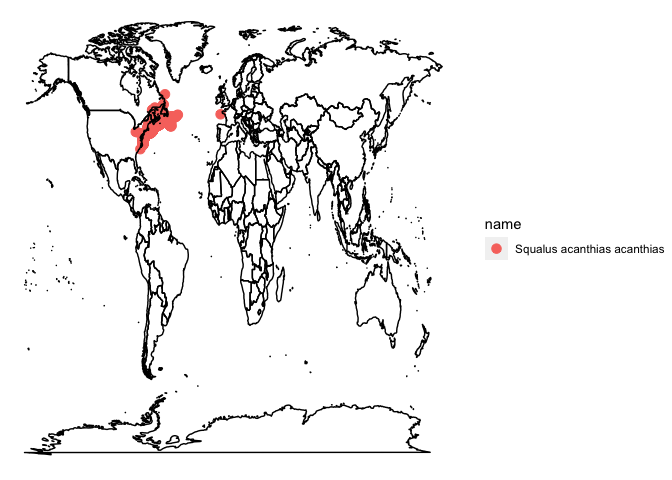
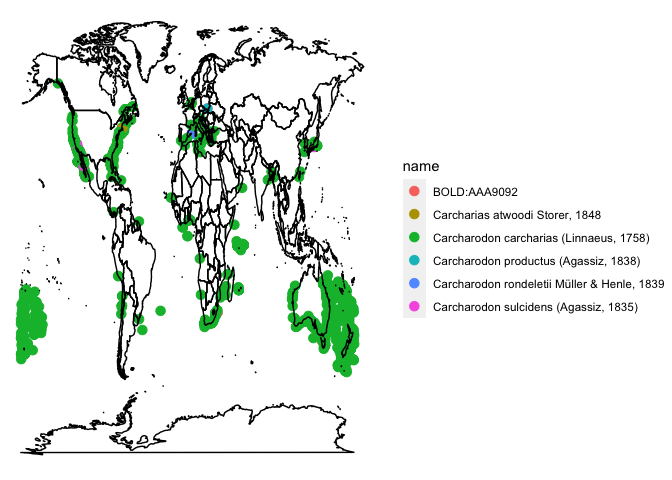
update read me

diff --git a/README.md b/README.md
@@ -30,92 +30,10 @@ suppressPackageStartupMessages({
 })
 
 # make it quiet for the purpose of the README markdown
-x = fetch_gbif(species = "Squalus acanthias subsp. acanthias Linnaeus, 1758", 
-               verbose = FALSE, progress = FALSE) |>
-  dplyr::glimpse()
+# x = fetch_gbif(species = "Carcharodon carcharias", 
+#                verbose = FALSE, progress = FALSE) |>
+#   dplyr::glimpse()
 ```
-
-    ## Rows: 9,704
-    ## Columns: 79
-    ## $ key                                     <chr> "3489356476", "18485333", "184…
-    ## $ scientificName                          <chr> "Squalus acanthias acanthias",…
-    ## $ decimalLatitude                         <dbl> 47.49023, 47.26000, 47.08000, …
-    ## $ decimalLongitude                        <dbl> -6.18211, -58.44000, -58.21000…
-    ## $ issues                                  <chr> "gass84", "gass84", "gass84", …
-    ## $ datasetKey                              <chr> "6cbf7d4d-13cb-4604-8668-db68f…
-    ## $ publishingOrgKey                        <chr> "1928bdf0-f5d2-11dc-8c12-b8a03…
-    ## $ installationKey                         <chr> "07ea29ef-e386-4278-ae0f-09577…
-    ## $ publishingCountry                       <chr> "FR", "CA", "CA", "CA", "CA", …
-    ## $ protocol                                <chr> "DWC_ARCHIVE", "DWC_ARCHIVE", …
-    ## $ lastCrawled                             <chr> "2022-04-20T10:46:55.512+00:00…
-    ## $ lastParsed                              <chr> "2022-04-25T18:41:54.030+00:00…
-    ## $ crawlId                                 <int> 169, 168, 168, 168, 168, 168, …
-    ## $ hostingOrganizationKey                  <chr> "1928bdf0-f5d2-11dc-8c12-b8a03…
-    ## $ basisOfRecord                           <chr> "HUMAN_OBSERVATION", "HUMAN_OB…
-    ## $ occurrenceStatus                        <chr> "PRESENT", "PRESENT", "PRESENT…
-    ## $ taxonKey                                <int> 6163063, 6163063, 6163063, 616…
-    ## $ kingdomKey                              <int> 1, 1, 1, 1, 1, 1, 1, 1, 1, 1, …
-    ## $ phylumKey                               <int> 44, 44, 44, 44, 44, 44, 44, 44…
-    ## $ classKey                                <int> 121, 121, 121, 121, 121, 121, …
-    ## $ orderKey                                <int> 883, 883, 883, 883, 883, 883, …
-    ## $ familyKey                               <int> 5872, 5872, 5872, 5872, 5872, …
-    ## $ genusKey                                <int> 2420869, 2420869, 2420869, 242…
-    ## $ speciesKey                              <int> 5216368, 5216368, 5216368, 521…
-    ## $ acceptedTaxonKey                        <int> 5216368, 5216368, 5216368, 521…
-    ## $ acceptedScientificName                  <chr> "Squalus acanthias Linnaeus, 1…
-    ## $ kingdom                                 <chr> "Animalia", "Animalia", "Anima…
-    ## $ phylum                                  <chr> "Chordata", "Chordata", "Chord…
-    ## $ order                                   <chr> "Squaliformes", "Squaliformes"…
-    ## $ family                                  <chr> "Squalidae", "Squalidae", "Squ…
-    ## $ genus                                   <chr> "Squalus", "Squalus", "Squalus…
-    ## $ species                                 <chr> "Squalus acanthias", "Squalus …
-    ## $ genericName                             <chr> "Squalus", "Squalus", "Squalus…
-    ## $ specificEpithet                         <chr> "acanthias", "acanthias", "aca…
-    ## $ infraspecificEpithet                    <chr> "acanthias", "acanthias", "aca…
-    ## $ taxonRank                               <chr> "SUBSPECIES", "SUBSPECIES", "S…
-    ## $ taxonomicStatus                         <chr> "SYNONYM", "SYNONYM", "SYNONYM…
-    ## $ coordinateUncertaintyInMeters           <dbl> 256905, NA, NA, NA, NA, NA, NA…
-    ## $ year                                    <int> 2017, 1994, 1994, 1994, 1994, …
-    ## $ month                                   <int> 3, 1, 1, 2, 2, 2, 2, 2, 2, 2, …
-    ## $ day                                     <int> 3, 21, 25, 7, 8, 1, 19, 19, 20…
-    ## $ eventDate                               <chr> "2017-03-03T00:00:00", "1994-0…
-    ## $ lastInterpreted                         <chr> "2022-04-25T18:41:54.030+00:00…
-    ## $ license                                 <chr> "http://creativecommons.org/li…
-    ## $ identifiers                             <chr> "none", "none", "none", "none"…
-    ## $ facts                                   <chr> "none", "none", "none", "none"…
-    ## $ relations                               <chr> "none", "none", "none", "none"…
-    ## $ gadm                                    <chr> "none", "none", "none", "none"…
-    ## $ isInCluster                             <lgl> FALSE, FALSE, FALSE, FALSE, FA…
-    ## $ datasetID                               <chr> "6B38DF84-3005-38DF-E053-2614A…
-    ## $ recordedBy                              <chr> "()", NA, NA, NA, NA, NA, NA, …
-    ## $ inCluster                               <lgl> FALSE, FALSE, FALSE, FALSE, FA…
-    ## $ geodeticDatum                           <chr> "WGS84", "WGS84", "WGS84", "WG…
-    ## $ class                                   <chr> "Elasmobranchii", "Elasmobranc…
-    ## $ countryCode                             <chr> "FR", "CA", "CA", "US", "US", …
-    ## $ recordedByIDs                           <chr> "none", "none", "none", "none"…
-    ## $ identifiedByIDs                         <chr> "none", "none", "none", "none"…
-    ## $ country                                 <chr> "France", "Canada", "Canada", …
-    ## $ eventID                                 <chr> "6CF446C4-4B65-145C-E053-2614A…
-    ## $ identifier                              <chr> "6CF446C4-4B65-145C-E053-2614A…
-    ## $ originalNameUsage                       <chr> "Squalus acanthias acanthias",…
-    ## $ county                                  <chr> "Atlantique (plateau continent…
-    ## $ associatedReferences                    <chr> "Mention dans le site Natura 2…
-    ## $ identificationVerificationStatus        <chr> "Probable, high degree of reli…
-    ## $ nameAccordingTo                         <chr> "Gargominy O (2021). TAXREF. V…
-    ## $ occurrenceRemarks                       <chr> "WGS84", NA, NA, NA, NA, NA, N…
-    ## $ gbifID                                  <chr> "3489356476", "18485333", "184…
-    ## $ occurrenceID                            <chr> "6CF446C4-4B65-145C-E053-2614A…
-    ## $ taxonID                                 <chr> "564065", NA, NA, NA, NA, NA, …
-    ## $ name                                    <chr> "Squalus acanthias acanthias",…
-    ## $ X.2b7c7b4f.4d4f.40d3.94de.c28b6fa054a6. <chr> NA, "2b7c7b4f-4d4f-40d3-94de-c…
-    ## $ datasetName                             <chr> NA, "ECNASAP - East Coast Nort…
-    ## $ rightsHolder                            <chr> NA, "Her Majesty the Queen in …
-    ## $ catalogNumber                           <chr> NA, "27340.SPIDOG", "27371.SPI…
-    ## $ institutionCode                         <chr> NA, "DFO-NG", "DFO-NG", "NMFS-…
-    ## $ locality                                <chr> NA, "Stratum.303", "Stratum.71…
-    ## $ collectionCode                          <chr> NA, "20.45", "20.45", "DE.17",…
-    ## $ language                                <chr> NA, "En", "En", "En", "En", "E…
-    ## $ type                                    <chr> NA, "Dataset", "Dataset", "Dat…
 
 If you have downloaded multiple datasets you can list the ones you have.
 
@@ -123,9 +41,7 @@ If you have downloaded multiple datasets you can list the ones you have.
 (spp <- list_gbif())
 ```
 
-    ## [1] "Carcharodon carcharias"                           
-    ## [2] "Prionace glauca"                                  
-    ## [3] "Squalus acanthias subsp. acanthias Linnaeus, 1758"
+    ## [1] "Carcharodon carcharias" "Menidia menidia"
 
 Now that you have a set of data files you can read them, optionally with
 a select number of [GBIF Darwin
@@ -133,22 +49,27 @@ Core](https://ipt.gbif.org/manual/en/ipt/2.5/occurrence-data) required
 and recommended fields.
 
 ``` r
-x <- read_gbif(spp[3], dwc = TRUE)
+x <- read_gbif(spp[1], dwc = TRUE)
+```
+
+    ## Warning: One or more parsing issues, see `problems()` for details
+
+``` r
 glimpse(x)
 ```
 
-    ## Rows: 9,704
+    ## Rows: 14,995
     ## Columns: 13
-    ## $ occurrenceID         <chr> "6CF446C4-4B65-145C-E053-2614A8C003BC", "27340.SP…
+    ## $ occurrenceID         <chr> "https://www.inaturalist.org/observations/1046725…
     ## $ basisOfRecord        <chr> "HUMAN_OBSERVATION", "HUMAN_OBSERVATION", "HUMAN_…
-    ## $ scientificName       <chr> "Squalus acanthias acanthias", "Squalus acanthias…
-    ## $ eventDate            <date> 4077342-05-23, 2080353-07-17, 2081299-10-05, 208…
-    ## $ taxonRank            <chr> "SUBSPECIES", "SUBSPECIES", "SUBSPECIES", "SUBSPE…
+    ## $ scientificName       <chr> "Carcharodon carcharias (Linnaeus, 1758)", "Carch…
+    ## $ eventDate            <date> 4496496-10-14, 4495335-05-15, 4495571-12-04, 449…
+    ## $ taxonRank            <chr> "SPECIES", "SPECIES", "SPECIES", "SPECIES", "SPEC…
     ## $ kingdom              <chr> "Animalia", "Animalia", "Animalia", "Animalia", "…
-    ## $ decimalLatitude      <dbl> 47.49023, 47.26000, 47.08000, 40.07000, 40.18000,…
-    ## $ decimalLongitude     <dbl> -6.18211, -58.44000, -58.21000, -72.82000, -72.25…
+    ## $ decimalLatitude      <dbl> 32.88271, -39.15443, -36.59722, -36.09550, -35.12…
+    ## $ decimalLongitude     <dbl> -117.2889, 177.2414, 174.8819, 175.5118, 150.4139…
     ## $ geodeticDatum        <chr> "WGS84", "WGS84", "WGS84", "WGS84", "WGS84", "WGS…
-    ## $ countryCode          <chr> "FR", "CA", "CA", "US", "US", "US", "US", "US", "…
+    ## $ countryCode          <chr> "US", "NZ", "NZ", "NZ", "AU", "US", "AU", "AU", "…
     ## $ individualCount      <int> NA, NA, NA, NA, NA, NA, NA, NA, NA, NA, NA, NA, N…
     ## $ organismQuantity     <int> NA, NA, NA, NA, NA, NA, NA, NA, NA, NA, NA, NA, N…
     ## $ organismQuantityType <chr> NA, NA, NA, NA, NA, NA, NA, NA, NA, NA, NA, NA, N…
